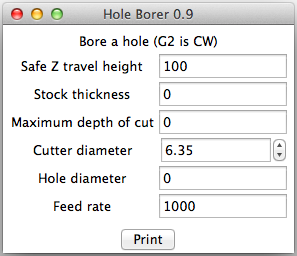
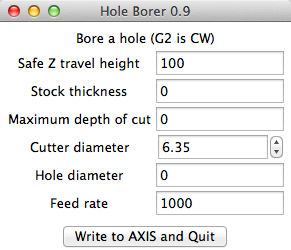
Created a new image file with 'Write to AXIS...' button.
Also ensured that the 'Write to AXIS...' button would appear in the
LinuxCNC environment.

diff --git a/Hole_Borer.py b/Hole_Borer.py
@@ -40,7 +40,7 @@ class Application(Frame):
 
         # not sure about this behaviour
         if IN_AXIS:
-            self.quitButton = Button(self, text='Write to AXIS and Quit',\
+            self.printButton = Button(self, text='Write to AXIS and Quit',\
                 command=self.WriteToAxis)
         else:
             self.printButton = Button(self, text='Print', command=self.Print)
